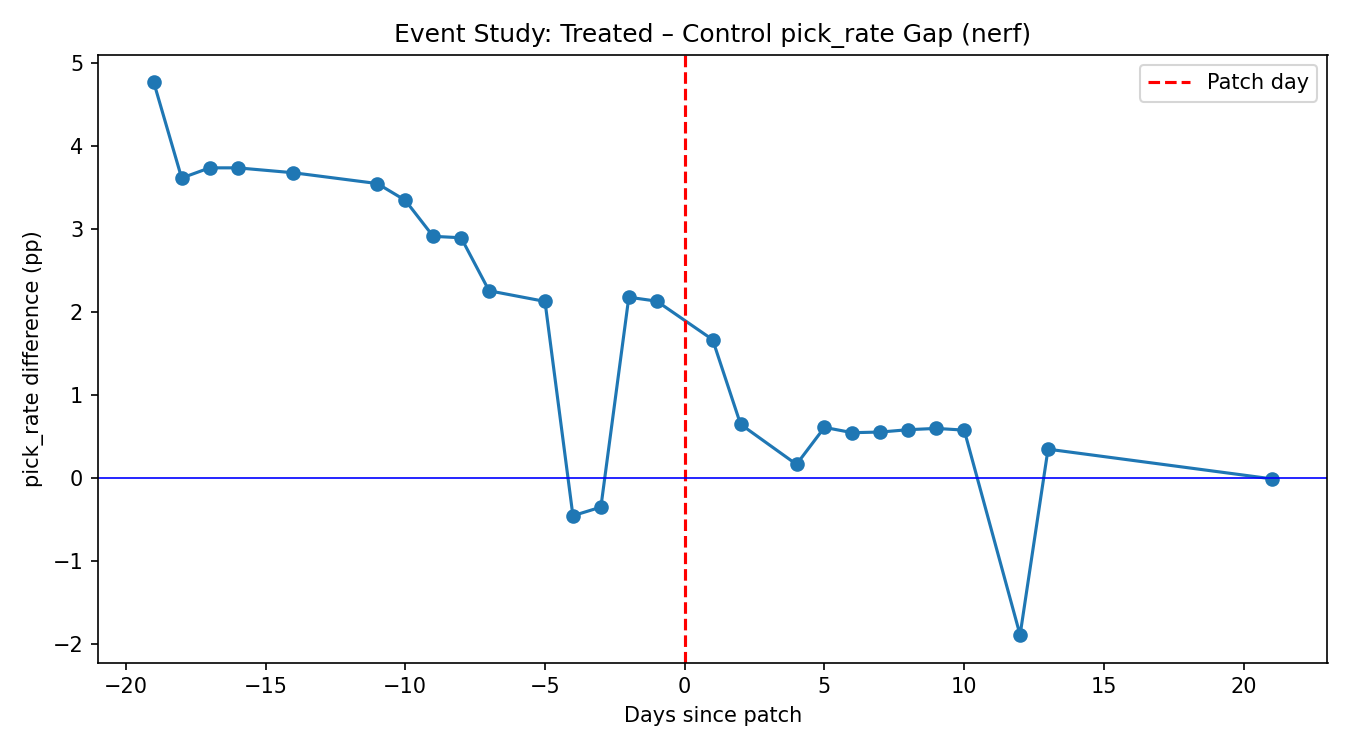
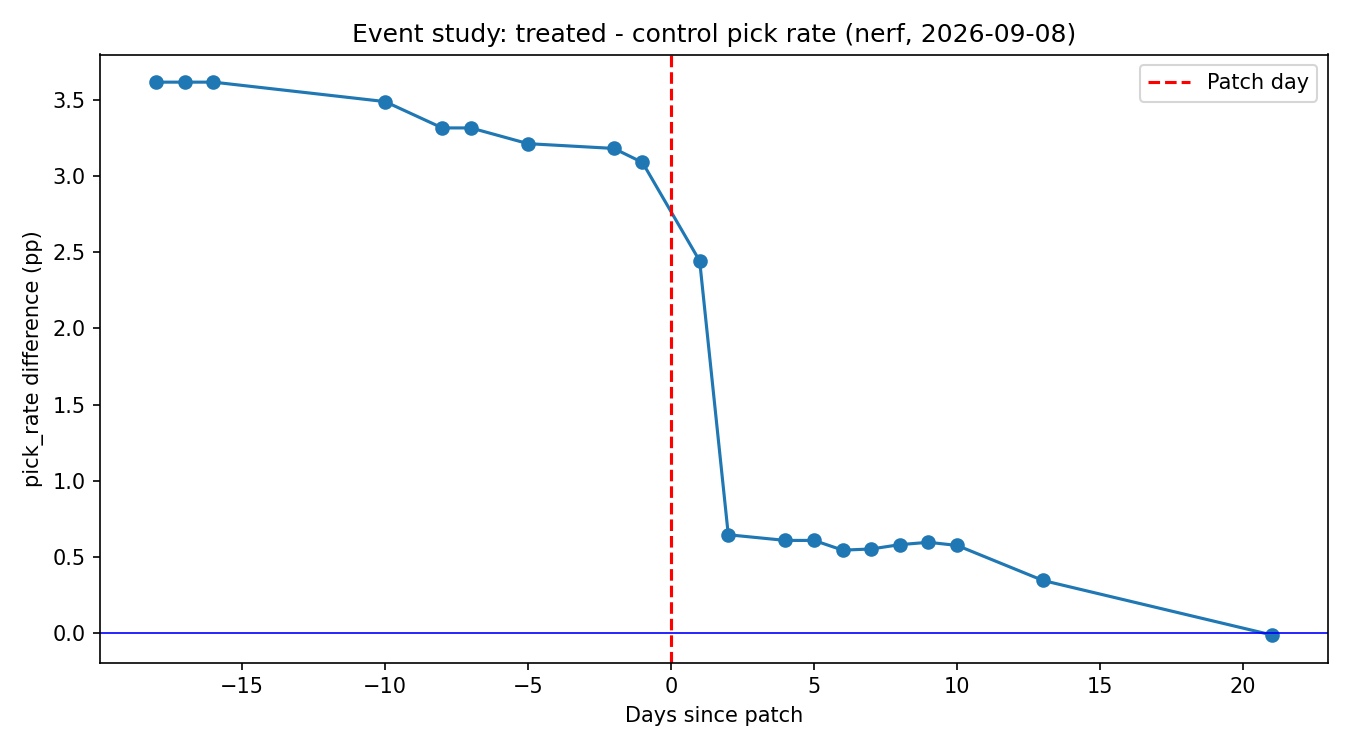
Use single-patch event study for 2026-09-08 and add robustness check

diff --git a/analysis/did_robustness.py b/analysis/did_robustness.py
@@ -1,0 +1,79 @@
+"""
+analysis/did_robustness.py
+
+Robustness check for a single patch's nerf (or buff) effect.
+
+1. Re-draws the event study for ONE patch date only. event_study.py pools
+   every analyzable patch, so days with missing snapshots can mix different
+   patches together and create jumps that aren't real.
+2. Runs the DiD twice for that patch: the original spec, and one that adds a
+   treated-specific linear trend (is_treated:days_since_patch), so a decline
+   that was already under way before the patch isn't counted as the effect.
+
+Usage:
+    python3 -m analysis.did_robustness 2026-09-08 nerf
+"""
+import os
+import sys
+
+import matplotlib.pyplot as plt
+import statsmodels.formula.api as smf
+
+from analysis.did_analysis import load_panel, scope_for_change_type
+
+BASE = "pick_rate ~ is_post + is_treated:is_post + C(rank_tier) + C(hero_key)"
+WITH_TREND = BASE + " + is_treated:days_since_patch"
+
+
+def fit(formula, data):
+    return smf.ols(formula, data=data).fit(
+        cov_type="cluster", cov_kwds={"groups": data["hero_key"]}
+    )
+
+
+def main(patch_date: str, change_type: str) -> None:
+    panel = load_panel()
+    panel = panel[panel["patch_date"].astype(str) == patch_date]
+    data = scope_for_change_type(panel, change_type).dropna(subset=["pick_rate"])
+    if data.empty:
+        print(f"No rows for patch {patch_date} / {change_type}.")
+        sys.exit(1)
+
+    n_treated = data.loc[data["is_treated"] == 1, "hero_key"].nunique()
+    days = sorted(data["pulled_date"].astype(str).unique())
+    print(f"Patch {patch_date}, {change_type}: {n_treated} treated heroes, "
+          f"{len(days)} snapshot days ({days[0]} to {days[-1]})")
+
+    for label, formula in [("Original DiD", BASE), ("With pre-trend control", WITH_TREND)]:
+        model = fit(formula, data)
+        est = model.params["is_treated:is_post"]
+        p = model.pvalues["is_treated:is_post"]
+        print(f"  {label:<24} effect = {est:+.2f}pp   p = {p:.4f}")
+
+    gap = (
+        data.groupby(["days_since_patch", "is_treated"])["pick_rate"].mean()
+        .unstack()
+        .rename(columns={0: "control", 1: "treated"})
+    )
+    gap["diff"] = gap["treated"] - gap["control"]
+
+    os.makedirs("analysis/output", exist_ok=True)
+    out = f"analysis/output/event_study_pick_rate_{change_type}_{patch_date}.png"
+    fig, ax = plt.subplots(figsize=(9, 5))
+    ax.plot(gap.index, gap["diff"], marker="o", linewidth=1.5)
+    ax.axvline(0, color="red", linestyle="--", label="Patch day")
+    ax.axhline(0, color="blue", linewidth=0.8)
+    ax.set_title(f"Event study: treated - control pick rate ({change_type}, {patch_date})")
+    ax.set_xlabel("Days since patch")
+    ax.set_ylabel("pick_rate difference (pp)")
+    ax.legend()
+    fig.tight_layout()
+    fig.savefig(out, dpi=150)
+    print(f"Saved {out}")
+
+
+if __name__ == "__main__":
+    main(
+        sys.argv[1] if len(sys.argv) > 1 else "2026-09-08",
+        sys.argv[2] if len(sys.argv) > 2 else "nerf",
+    )

diff --git a/README.md b/README.md
@@ -146,11 +146,9 @@ no season identifier anywhere in its markup.
 | ban_rate | −0.04pp, p=0.896 | +3.15pp, p=0.387 |
 
 Nerf's pick_rate effect is the cleanest signal on record so far — right
-direction, p=0.005, backed by a flat pre-trend that breaks cleanly at patch
-day in `analysis/output/event_study_pick_rate_nerf.png`. Buff points the
-right way but isn't significant at n=5. Not enough data yet for the
-2026-09-17 D.Mon nerf (`MIN_POST_DAYS`) or for reworks (none on record after
-the classifier fix).
+direction, p=0.005, and the 2026-09-08 event study (below) shows a mostly flat
+pre-trend (a slight ~0.5pp drift over three weeks) followed by a sharp drop
+within two days of the patch. Buff points the
 
 ![Event study: treated minus control pick rate, nerf, 2026-09-08 patch](docs/event_study_pick_rate_nerf.png)
 
